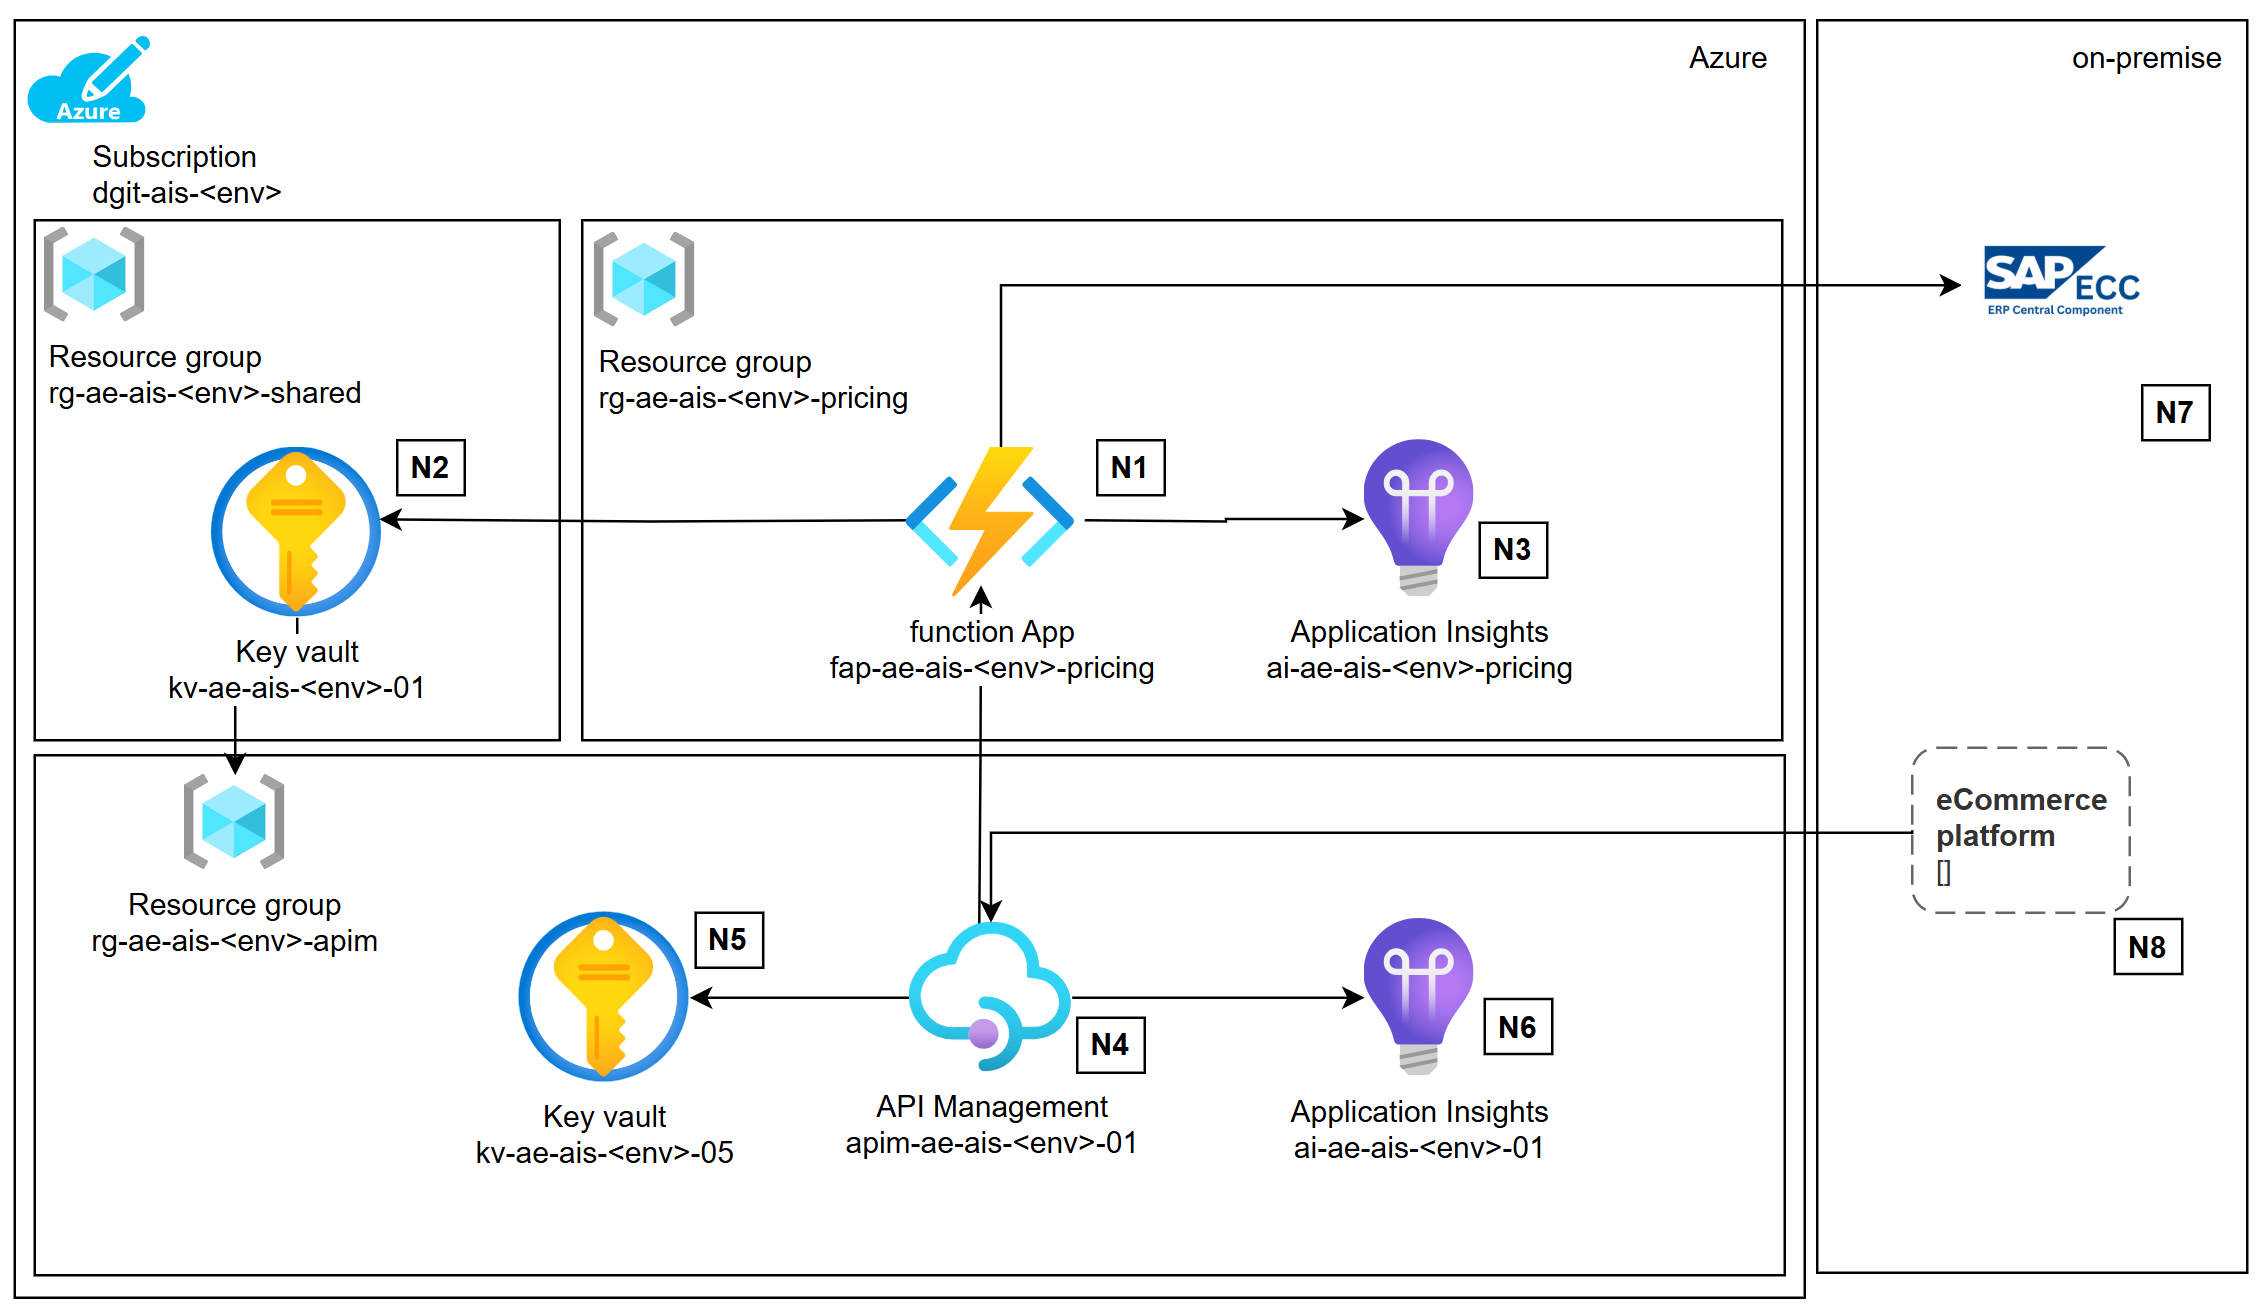
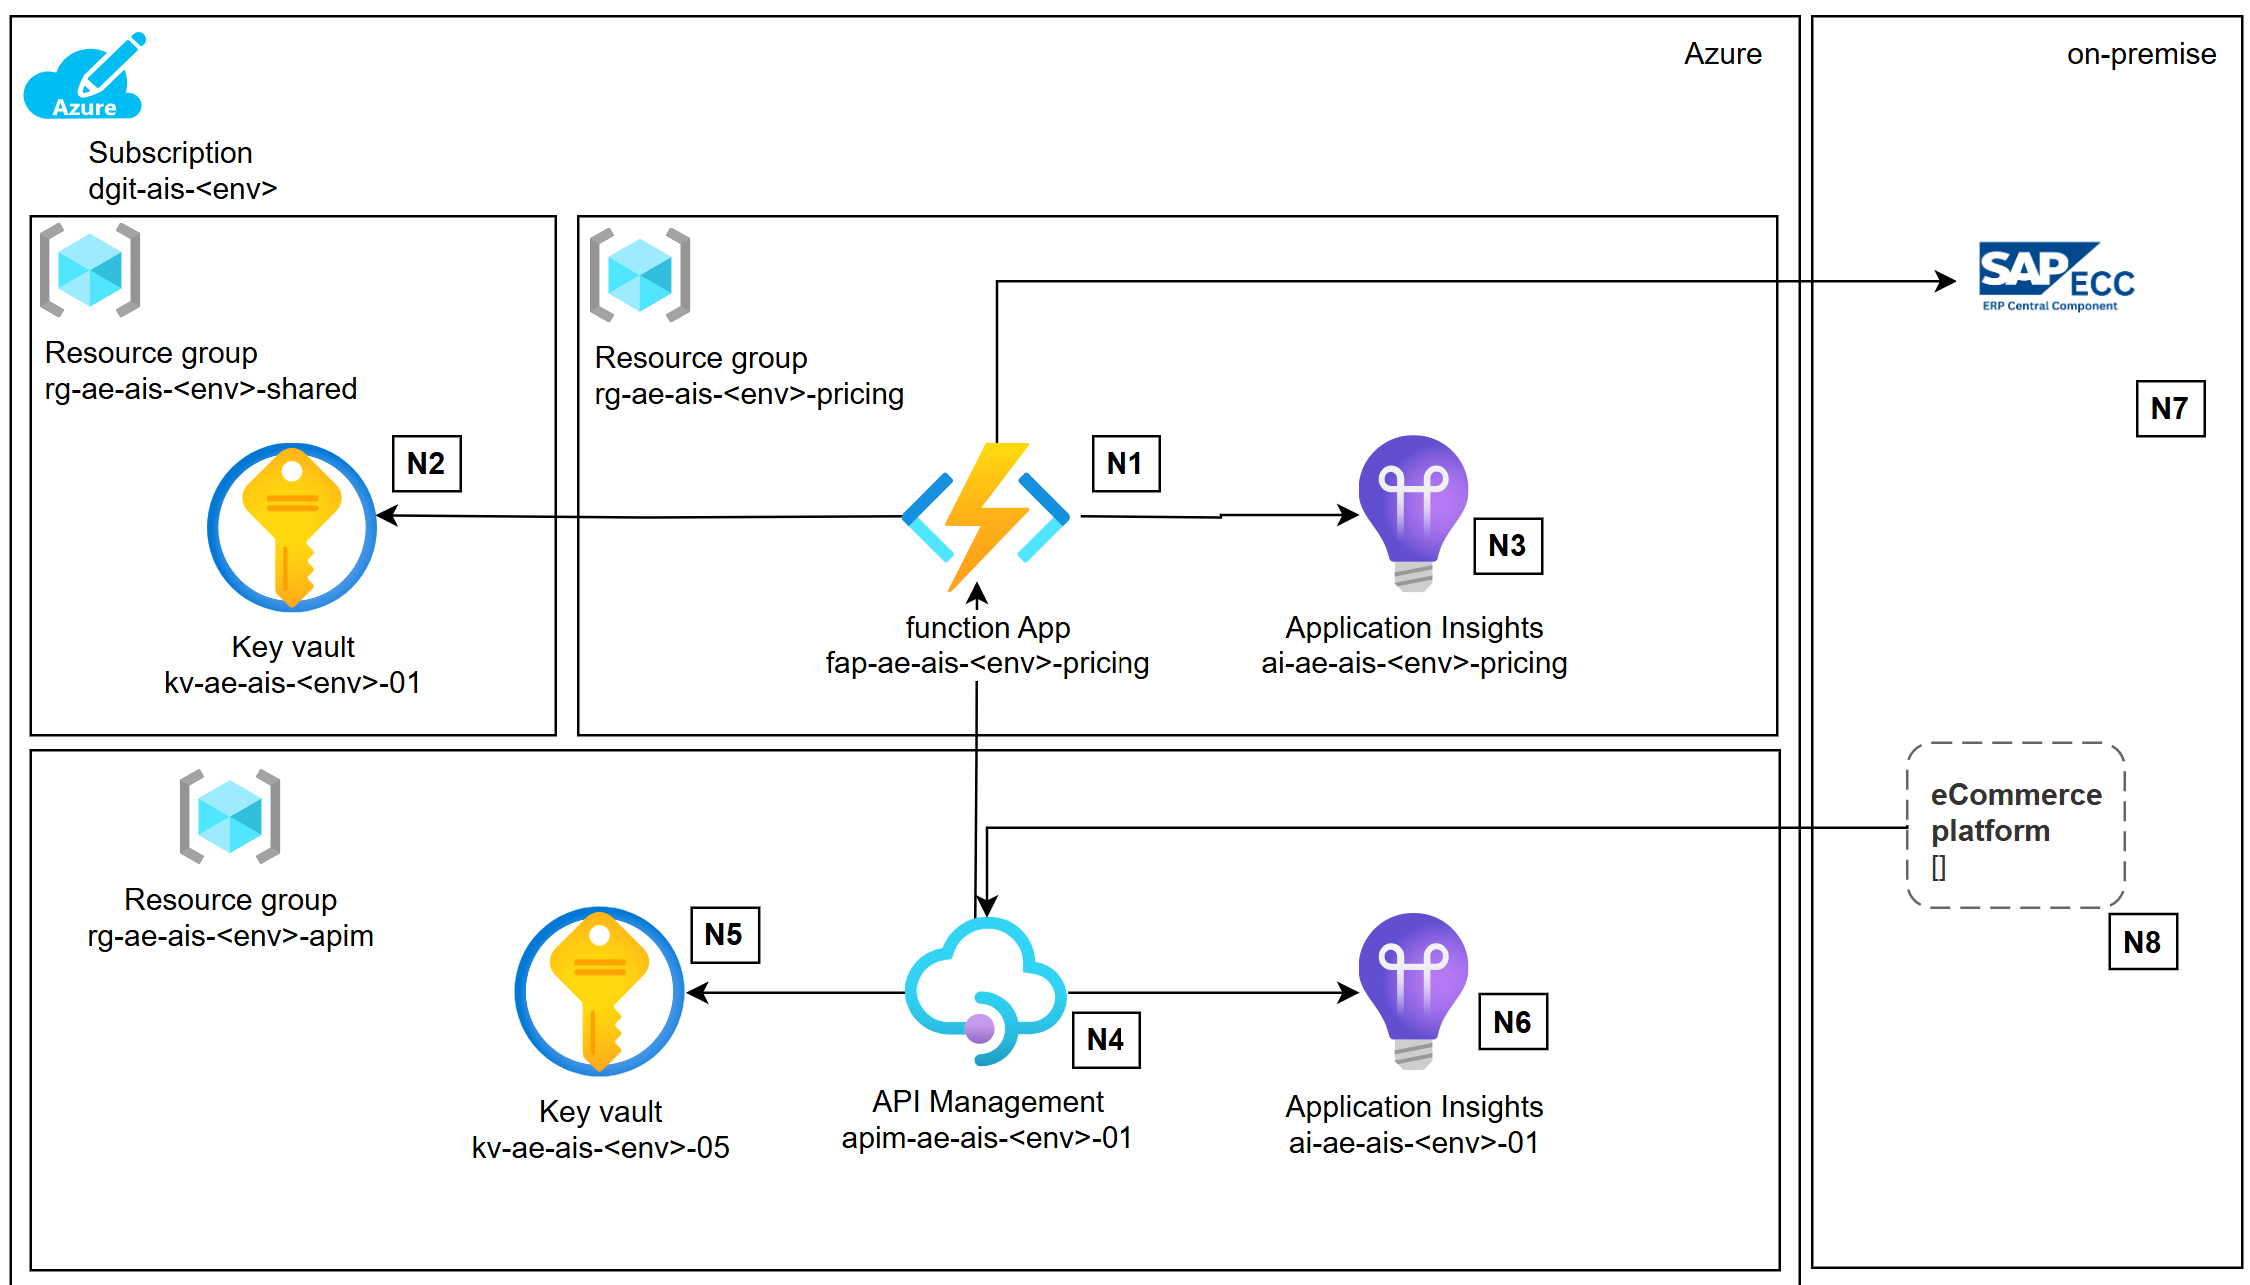
Post review updates (#5)
* initial updates on post review

* corrected the physical resource diagram

* more changes based on review

* revision

* updates

* cleanup

---------

diff --git a/docs/Integration Catalogue/Bunnings Sales Out Integration.md b/docs/Integration Catalogue/Bunnings Sales Out Integration.md
@@ -1,5 +1,5 @@
 # Business Context
-Bunnings makes up a large portion of Dulux's retail sales channel and is integrated with Dulux business systems via a process chain to provide weekly sales reports. This set of workflows ingest the flat files that Bunnings provides to Dulux into the necessary downstream systems. 
+Bunnings makes up a large portion of Dulux's retail sales channel and is integrated with Dulux business systems via a process chain to provide weekly sales reports. This set of workflows ingest the flat files that Bunnings provides to Dulux into the different downstream systems. 
 
 <br>
 
@@ -8,20 +8,23 @@ Bunnings makes up a large portion of Dulux's retail sales channel and is integra
 Solution Component | Description | Remarks
 ------ |--------- | ------
 Bunnings SFTP server| Hosting server that contains the sales reports to be fetched by Dulux | This is the **source systems** and enforces 'Dual auth with basic and key exchange'.
+SAP CI | Hosts Integration process that pulls files from bunnings SFTP server and put those in the SI file server via SFTP
 SI file server | This is the Dulux SFTP server that also acts as the file server for Dulux | All incoming files are staged here and copied across to downstream system including Local file archive, SAP Data Services server, SAP BW.
 SAP Data Services | This process initialises a list of available files located in directory 'Receive\LatestInventoryFiles\' and loads those into an Azure Data Lake.  | This process exists due to an issue Dulux were facing connecting to the Azure storage account in question, and the Data Services tool was able to overcome that with a native driver included in the software package.
-Data Engineering pipeline | This is a Azure Data Factory(ADF) that picks up the Bunnings file from the drop folder(\Bunnings_SalesOut) into Azure data lake. This pipeline orchestrates the Bunnings file, and pushes the data to the Curated layer/in synapse views. | 
+Data Engineering pipelines | This is a Azure Data Factory(ADF) that picks up the Bunnings file from the drop folder(\Bunnings_SalesOut) into Azure data lake. This pipeline process the raw file, and pushes the data to the Curated layer/in synapse views. | 
 
 
 <br>
 
 # Assumptions
-- Data provided as flat files from Bunnings, no filtering or transformations are required on the raw files.
+- Data provided as flat files from Bunnings, no filtering or transformations are required on the raw files. 
+- Only files that follow the filename pattern 'invrpt*' are fetched from the SFTP location.
 - Files are received from the Bunnings at the same time(7:30pm) every day.
-- The files are received in the same format each run and no extraneous files are received during pickup.
-- The ADF pipeline runs on a schedule.
+- The files are received in the same format each run and no extraneous files are received during pickup. Files are also received in Zip format.
+- The ADF pipelines runs on a schedule and interacts with a azure sql database.
 - No file needs to be saved as backup files in the SI file server(Path: 'F:\integrator\EDI\receive\backup\bunnings')
 - The process running in the 'SAP Data Services platform' will be removed since Logic app will copy the required files from the staged location(i.e. azure storage account residing in the Integration Landing Zone) straight to the Azure data lake storage Gen2 storage account.
+- The migration of this integration service to the new platform will be transparent to Bunnings. 
 
 <br>
 
@@ -53,19 +56,24 @@ Data Engineering pipeline | This is a Azure Data Factory(ADF) that picks up the 
 <p>
 
 - A timer triggered workflow will start the chain of execution and orchestrate the data movement process via nested workflows:
-  - The 'Retrieve files' workflow will pull in the files from bunnings SFTP and stage those in azure blob storage.
-  - The 'Copy files to SI file server' will copy all the staged files from blob storage and put the same in the SI File server as archive file (path: 'F:\CPI\Bunnings\ARCHIVE\').
-  - 'Copy file to BW system' will pull in the required set of files to SAP Business warehouse(BW) system and will triggers the designated SAP BW job via power shell script.
-  - 'Copy file to Azure Data Lake Storage' will copy the files into Azure Data Lake storage.
-  - 'Trigger ADF pipeline' workflow will invoke a ADF pipeline
-  - Finally, a workflow will clean up the stages files from the blob storage.
+  - The 'Retrieve files' workflow will pull in the files from Dulux SFTP server and stage those in azure blob storage.
+  - The 'Copy files to SI file server' workflow will copy all the staged files from blob storage and put the same in the SI File server as archive file (path: 'F:\CPI\Bunnings\ARCHIVE\').
+  - 'Copy file to BW system' workflow will push the required set of files to SAP Business warehouse(BW) system and will trigger a SAP BW job via power shell script.
+  - 'Copy file to Azure Data Lake Storage' workflow will copy the files into Azure Data Lake storage.
+  - 'Trigger ADF pipeline' workflow will orchestrate the execution of the following two ADF pipelines:
+    - It will trigger a data pipeline
+    - will keep pulling the status of the job by doing a lookup in the control database.
+    - Once the above job is complete , it will trigger the second data pipeline.
+  - Finally, a workflow will clean up the staged files from the blob storage.
 - The logic app will connect with Azure Data Lake Storage Gen2 (ADLS Gen2) account by [Azure Blob Storage connector](https://learn.microsoft.com/en-us/connectors/azureblob/) 
-- Logic app will use 'File System built-in connector' to connect with the on-premises file shares.
+- Logic app will use 'File System built-in connector' to connect with the on-premises file shares(if required).
 - Logic app will use office365 connector to send emails from [email redacted].
 
 <ins>Note: </ins>
- - Some of the nested workflows can be run in a sequence or in parallel dependending on the requirement. This can be discussed in detail during the implementation stage.
- - We will use the Logic Apps PowerShell action to run a PowerShell script that calls the '.bat' file on the SI file server.
+ - Some of the nested workflows can be run in a sequence or in parallel dependending on the requirement. This will be discussed in detail during the implementation stage.
+ - We will use the Logic Apps PowerShell action to run a PowerShell script that will calls the batch file on the SI file server unless a more acceptable approach to 'call the SAP BW process' using a form of abstraction is found. The exact approach will need to be investigated before the build can commence.
+ - Recommendation is to maintain just one interface(and one protocol e.g. SFTP) with the SI file server (both to retrieve the files from bunnings as well as for the archiving).
+ - Any failure in relation to the file ingestion process  to any downstream system(e.g. invalid file or error while uploading a file) will be reported to designated email address. 
 </p>
 <br>
 
@@ -85,6 +93,9 @@ N4 | Azure blob Storage | It will be used as the staging storage where incoming 
 N5 | SI File Server | This acts as the persistent storage for Dulux where the raw files received from Bunnings SFTP are stored.
 N6 | Azure Data Lake Storage| Incoming files from bunnings are also pushed to this storage by another logic app workflow(see N1). These files are then picked up by data pipelines that pushes the data to the Curated layer/in synapse views. 
 N7 | Bunnings SFTP Server | This is the source system that publishes the sale reports in an SFTP location path. This server is operated by Bunnings and only vetted systems are granted access to it.
+N8 | SAP BW | SAP Business Warehouse system where sales files from bunnings will need to dropped followed by execution of a SAP BW process.
+N9 | Control Database | This is a azure Sql database that contains processing status of different jobs that are managed by data pipelines
+N10| SAP CI | Hosts Integration process that pulls files from bunnings SFTP server and put those in the SI file server via SFTP
 
 <br>
 
@@ -94,6 +105,7 @@ Following diagram illustrates the set of actions that will be orchestrated by th
 
 ![Workflow for Bunings Sales file Ingestion](../../.media/bunningsSalesOut/workflows.png)
 
+
 <br>
 
 ## Access and permission Requirement
@@ -102,7 +114,6 @@ Following diagram illustrates the set of actions that will be orchestrated by th
   - A service account will need to be created and a compatible office365 license needs to be assigned.
 - The managed identity of the Logic app needs to be granted required 'Role Based Access Control'(RBAC) permission to the azure data lake storage account.
 - The managed identity of the Logic app needs to be granted required 'Role Based Access Control'(RBAC) permission to execute a pipeline in the existing ADF.
-- 
 
 <br>
 
@@ -112,10 +123,10 @@ Following diagram illustrates the set of actions that will be orchestrated by th
 Source System | Source IP | Destination System| Destination IP| Destination Port | remarks
 ------ | ------ | ------| ------| ------ | ------
 Logic App| *\<ase subnet>* | Bunnings SFTP server | *\<To be confirmed >* | *\<To be confirmed by Dulux>* 
-Logic App| *\<ase subnet>* | Dulux SFTP server | *\<To be confirmed >* | 22
-Logic App| *\<ase subnet>* | Dulux SI File server | *\<To be confirmed >* | 445 *\<To be confirmed by Dulux>* 
+Logic App| *\<ase subnet>* | Dulux SI File server | *\<To be confirmed >* | 22,445 *\<To be confirmed by Dulux>* | 
 Logic App| *\<ase subnet>* | SAP BW server | *\<To be confirmed >* | *\<To be confirmed by Dulux>* 
-Logic App| *\<ase subnet>* | Azure Data Lake Storage Account | *\<To be confirmed >* | 443 | 
+Logic App| *\<ase subnet>* | Azure Data Lake Storage Account | *\<To be confirmed >* | 443 |
+Logic App| *\<ase subnet>* | Azure Sql Database | *\<To be confirmed >* | 1433 | 
 
 <br>
 
@@ -123,10 +134,10 @@ Logic App| *\<ase subnet>* | Azure Data Lake Storage Account | *\<To be confirme
 Source System | Source IP | Destination System| Destination IP| Destination Port | remarks
 ------ | ------ | ------| ------| ------ | ------
 Logic App| *\<ase subnet>* | Bunnings SFTP server | *\<To be confirmed >* | *\<To be confirmed by Dulux>* 
-Logic App| *\<ase subnet>* | Dulux SFTP server | *\<To be confirmed >* | 22
-Logic App| *\<ase subnet>* | Dulux SI File server | *\<To be confirmed >* | 445 *\<To be confirmed by Dulux>* 
+Logic App| *\<ase subnet>* | Dulux SI File server | *\<To be confirmed >* | 22,445 *\<To be confirmed by Dulux>* | 
 Logic App| *\<ase subnet>* | SAP BW server | *\<To be confirmed >* | *\<To be confirmed by Dulux>* 
-Logic App| *\<ase subnet>* | Azure Data Lake Storage Account | *\<To be confirmed >* | 443 | 
+Logic App| *\<ase subnet>* | Azure Data Lake Storage Account | *\<To be confirmed >* | 443 |
+Logic App| *\<ase subnet>* | Azure Sql Database | *\<To be confirmed >* | 1433 | 
 
 <br>
 
@@ -134,10 +145,10 @@ Logic App| *\<ase subnet>* | Azure Data Lake Storage Account | *\<To be confirme
 Source System | Source IP | Destination System| Destination IP| Destination Port | remarks
 ------ | ------ | ------| ------| ------ | ------
 Logic App| *\<ase subnet>* | Bunnings SFTP server | *\<To be confirmed >* | *\<To be confirmed by Dulux>* 
-Logic App| *\<ase subnet>* | Dulux SFTP server | *\<To be confirmed >* | 22
-Logic App| *\<ase subnet>* | Dulux SI File server | *\<To be confirmed >* | 445 *\<To be confirmed by Dulux>* 
+Logic App| *\<ase subnet>* | Dulux SI File server | *\<To be confirmed >* | 22,445 *\<To be confirmed by Dulux>* | 
 Logic App| *\<ase subnet>* | SAP BW server | *\<To be confirmed >* | *\<To be confirmed by Dulux>* 
-Logic App| *\<ase subnet>* | Azure Data Lake Storage Account | *\<To be confirmed >* | 443 | 
+Logic App| *\<ase subnet>* | Azure Data Lake Storage Account | *\<To be confirmed >* | 443 |
+Logic App| *\<ase subnet>* | Azure Sql Database | *\<To be confirmed >* | 1433 | 
 
 <br>
 